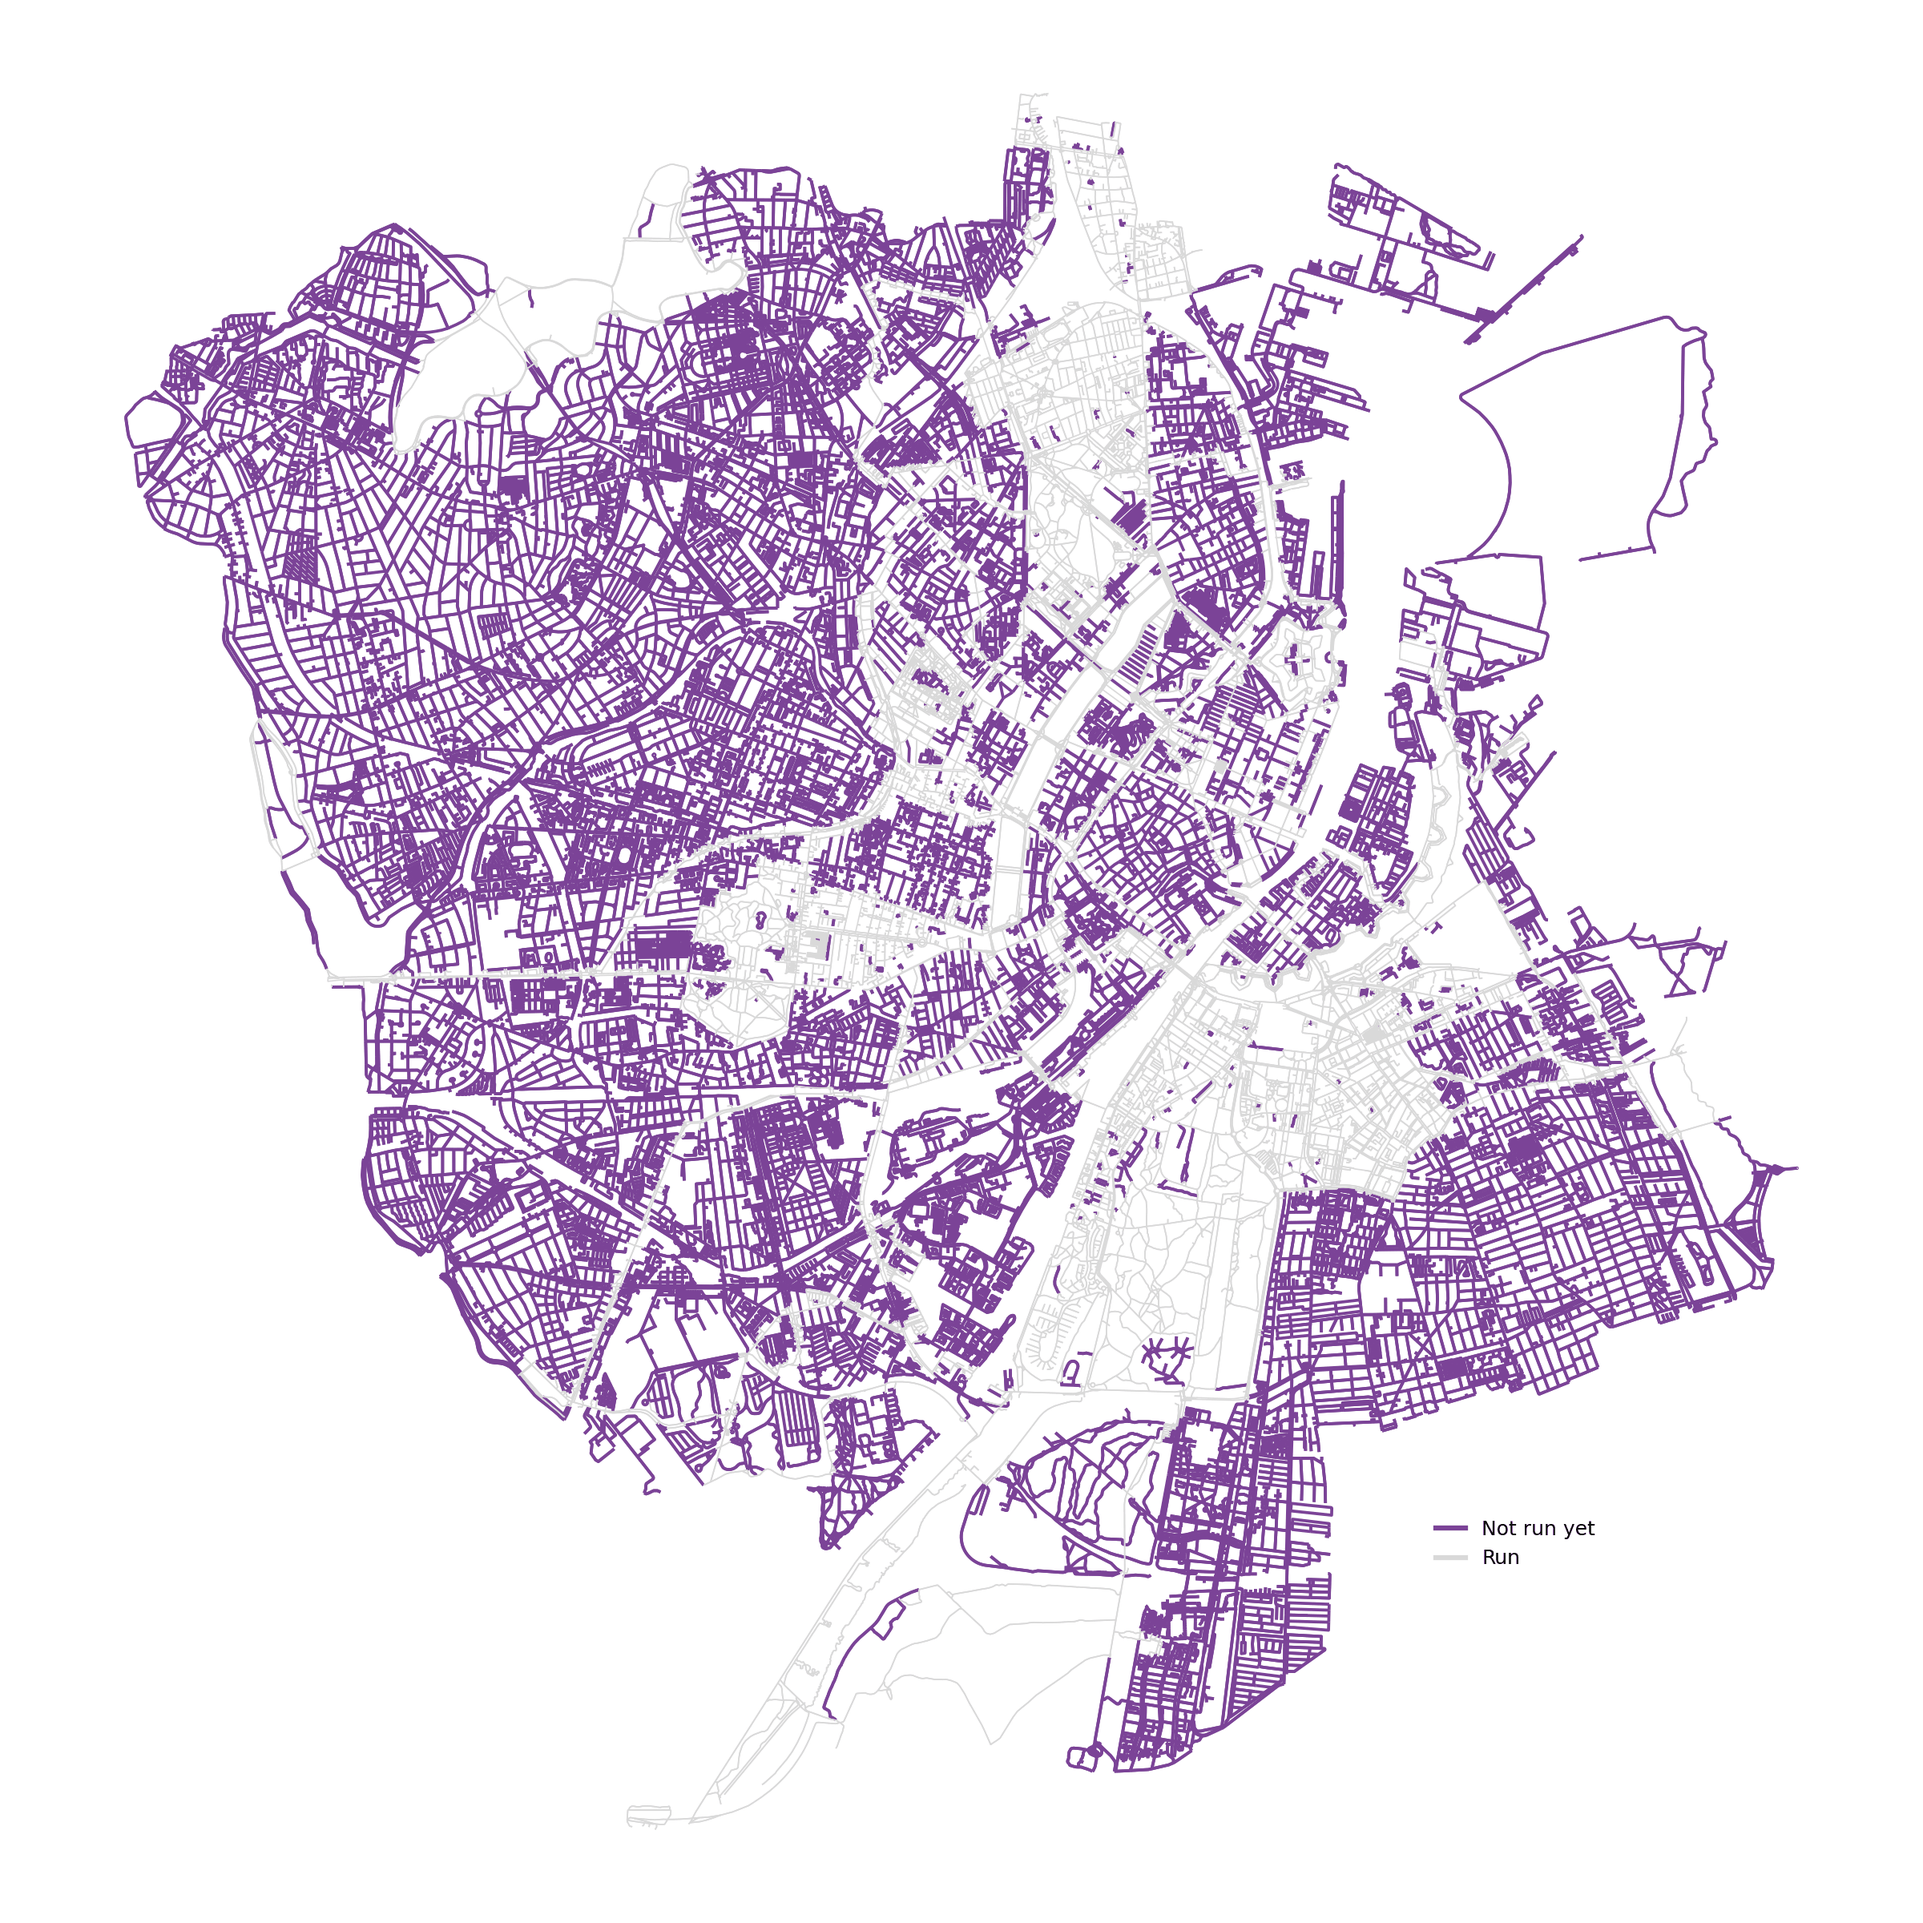
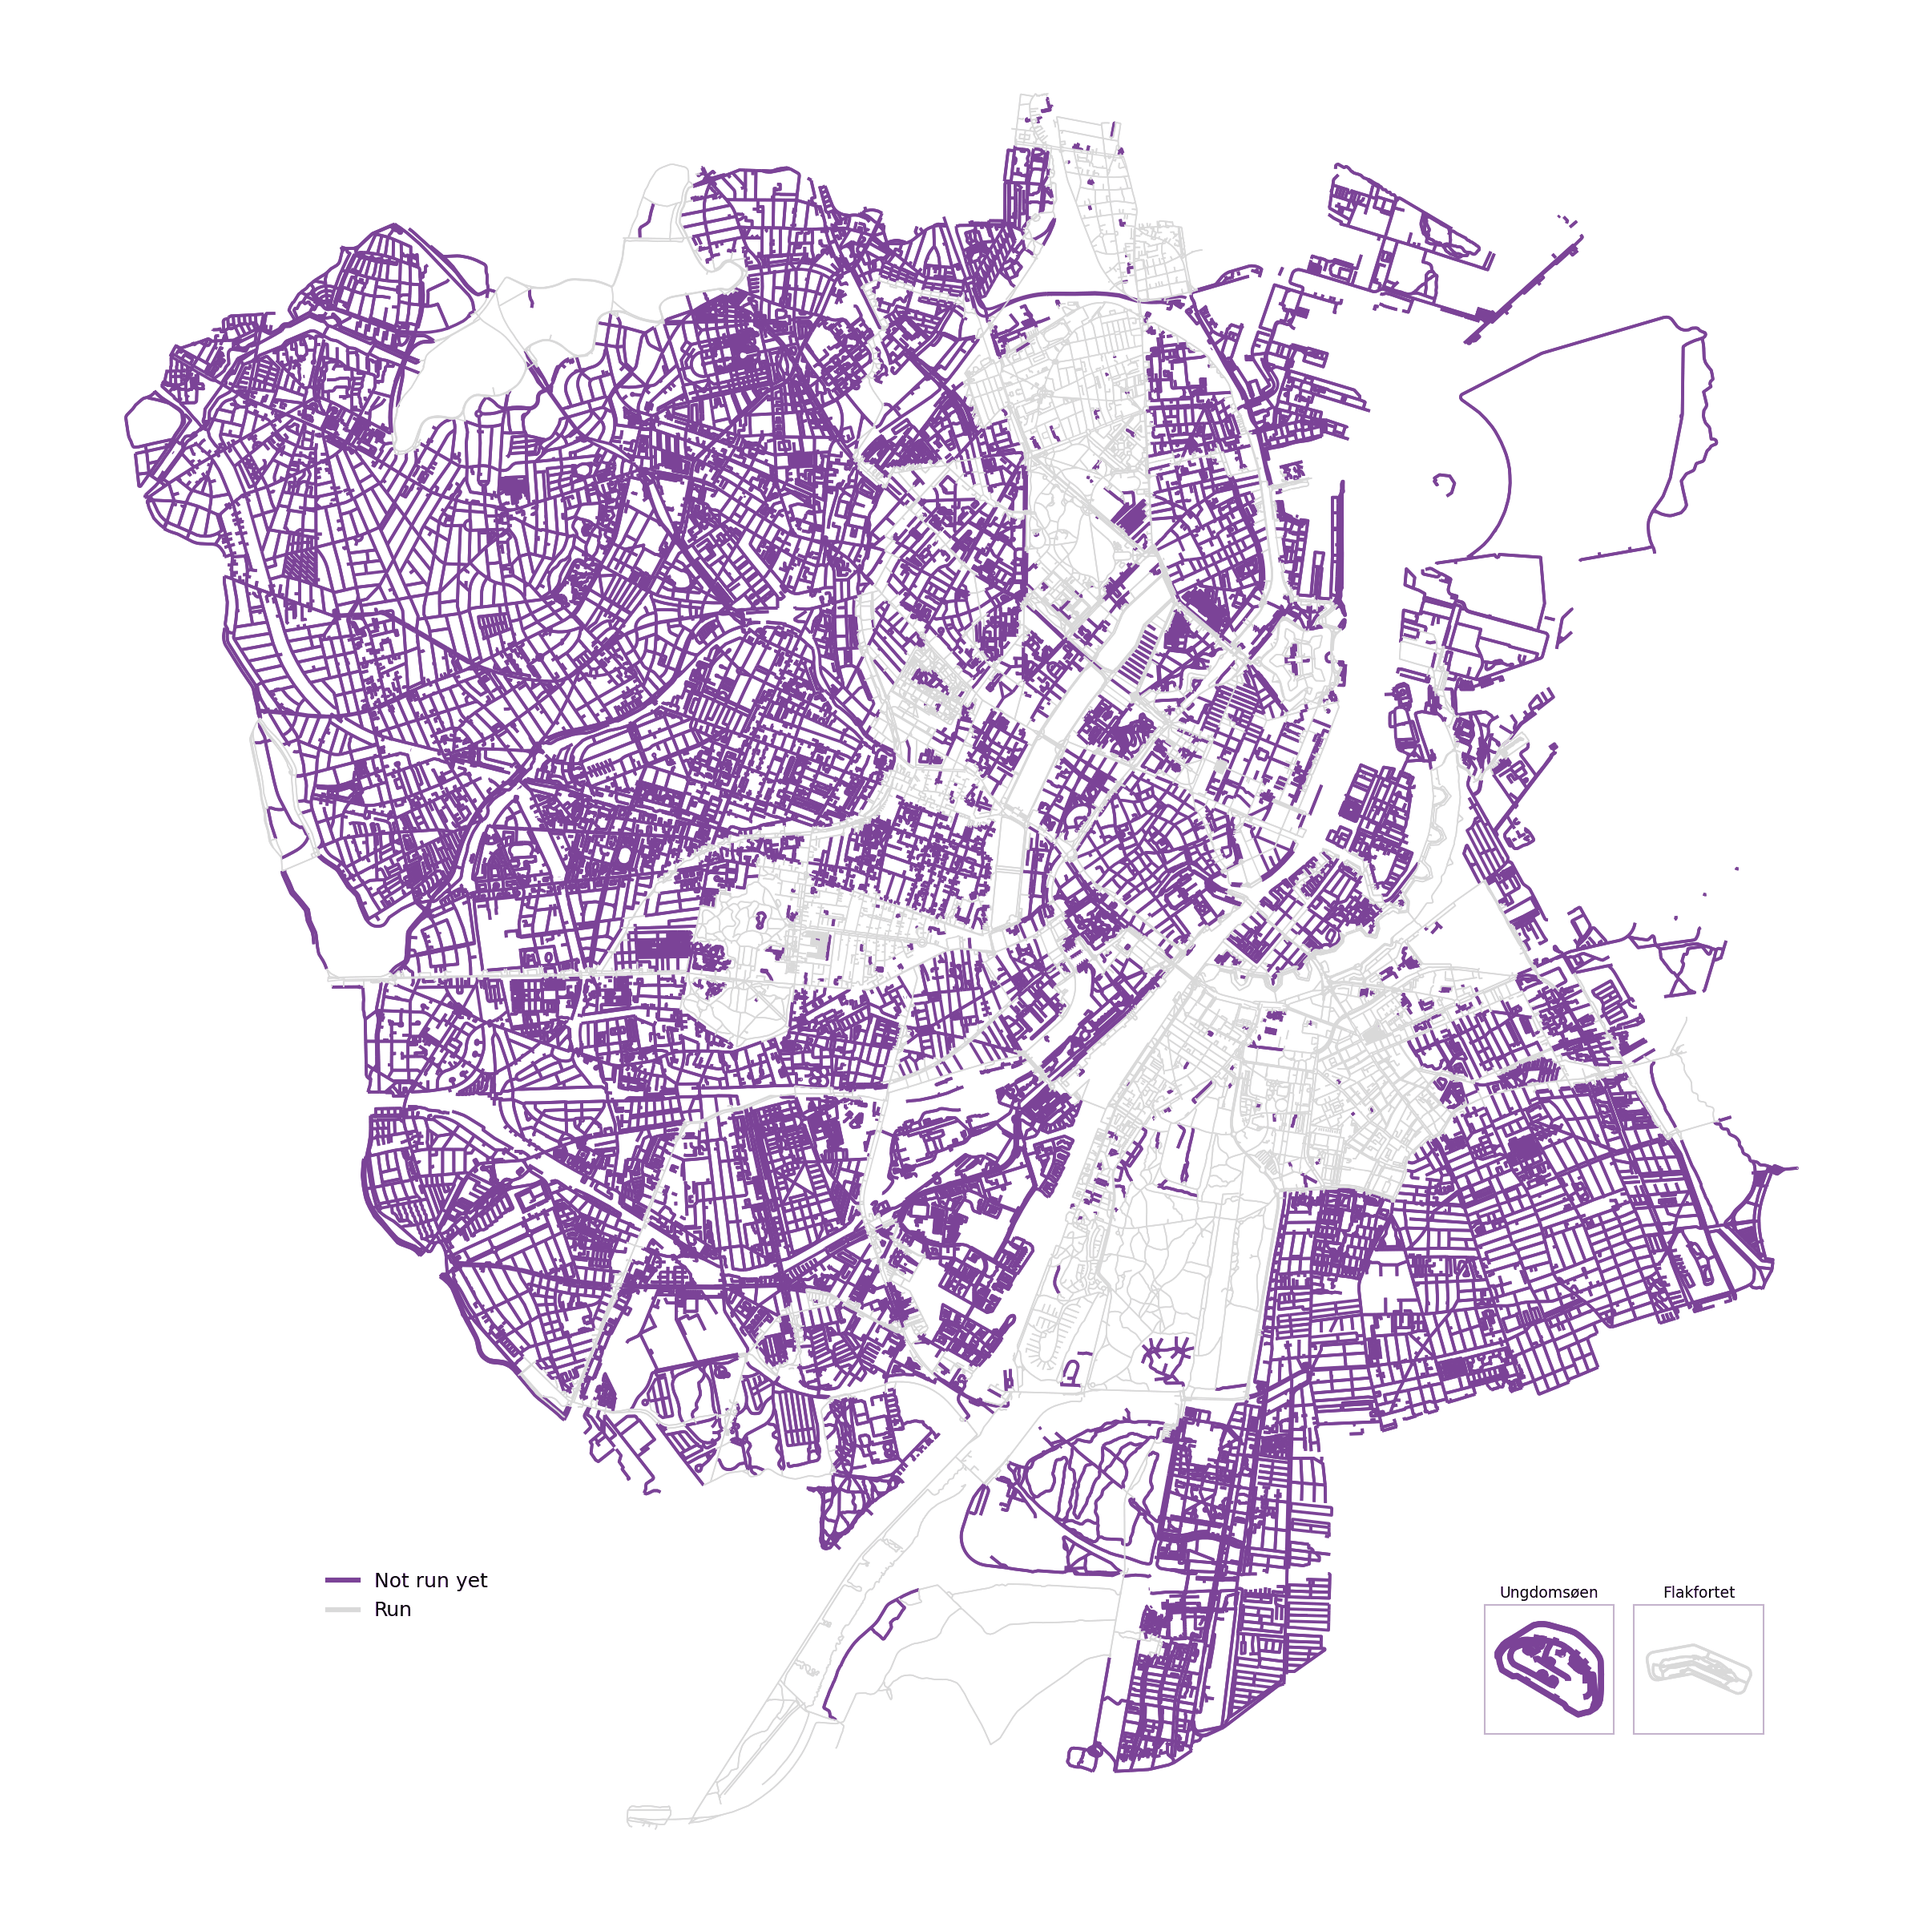
Added edge islands in ES CPH, changed tot stats

Changed region(s): [[0.7812, 0.8125, 0.9062, 0.9062], [0.75, 0.7812, 0.7812, 0.8125], [0.1875, 0.8125, 0.2188, 0.8438]]

diff --git a/ES_CPH.md b/ES_CPH.md
@@ -24,19 +24,19 @@ The street network (all walkable ways, including footpaths through parks and sep
 
 ### Current coverage
 
-**1408 km done out of 5422 km of street network (26.5%).**
+**1418 km done out of 5371 km of street network (26.4%).**
 
 | District | Done (km) | Total (km) | % done |
 |---|---:|---:|---:|
-| Østerbro | 245.6 | 498.6 | 49.3% |
-| Amager Vest | 380.0 | 820.5 | 46.3% |
-| Indre By | 230.9 | 571.7 | 40.4% |
-| Nørrebro | 98.0 | 278.6 | 35.2% |
-| Amager Øst | 114.3 | 445.0 | 25.7% |
-| Frederiksberg | 143.7 | 578.8 | 24.8% |
-| Vesterbro-Kongens Enghave | 91.0 | 539.9 | 16.9% |
+| Østerbro | 246.8 | 498.6 | 48.7% |
+| Amager Vest | 382.3 | 820.5 | 46.3% |
+| Indre By | 236.2 | 571.7 | 40.3% |
+| Nørrebro | 98.0 | 278.6 | 35.0% |
+| Amager Øst | 114.3 | 445.0 | 25.6% |
+| Frederiksberg | 144.2 | 578.8 | 24.8% |
+| Vesterbro-Kongens Enghave | 91.4 | 539.9 | 16.7% |
 | Bispebjerg | 33.8 | 404.0 | 8.4% |
-| Valby | 32.9 | 469.5 | 7.0% |
+| Valby | 32.9 | 469.5 | 6.9% |
 | Brønshøj-Husum | 23.2 | 397.6 | 5.8% |
 | Vanløse | 14.6 | 317.9 | 4.6% |
 
